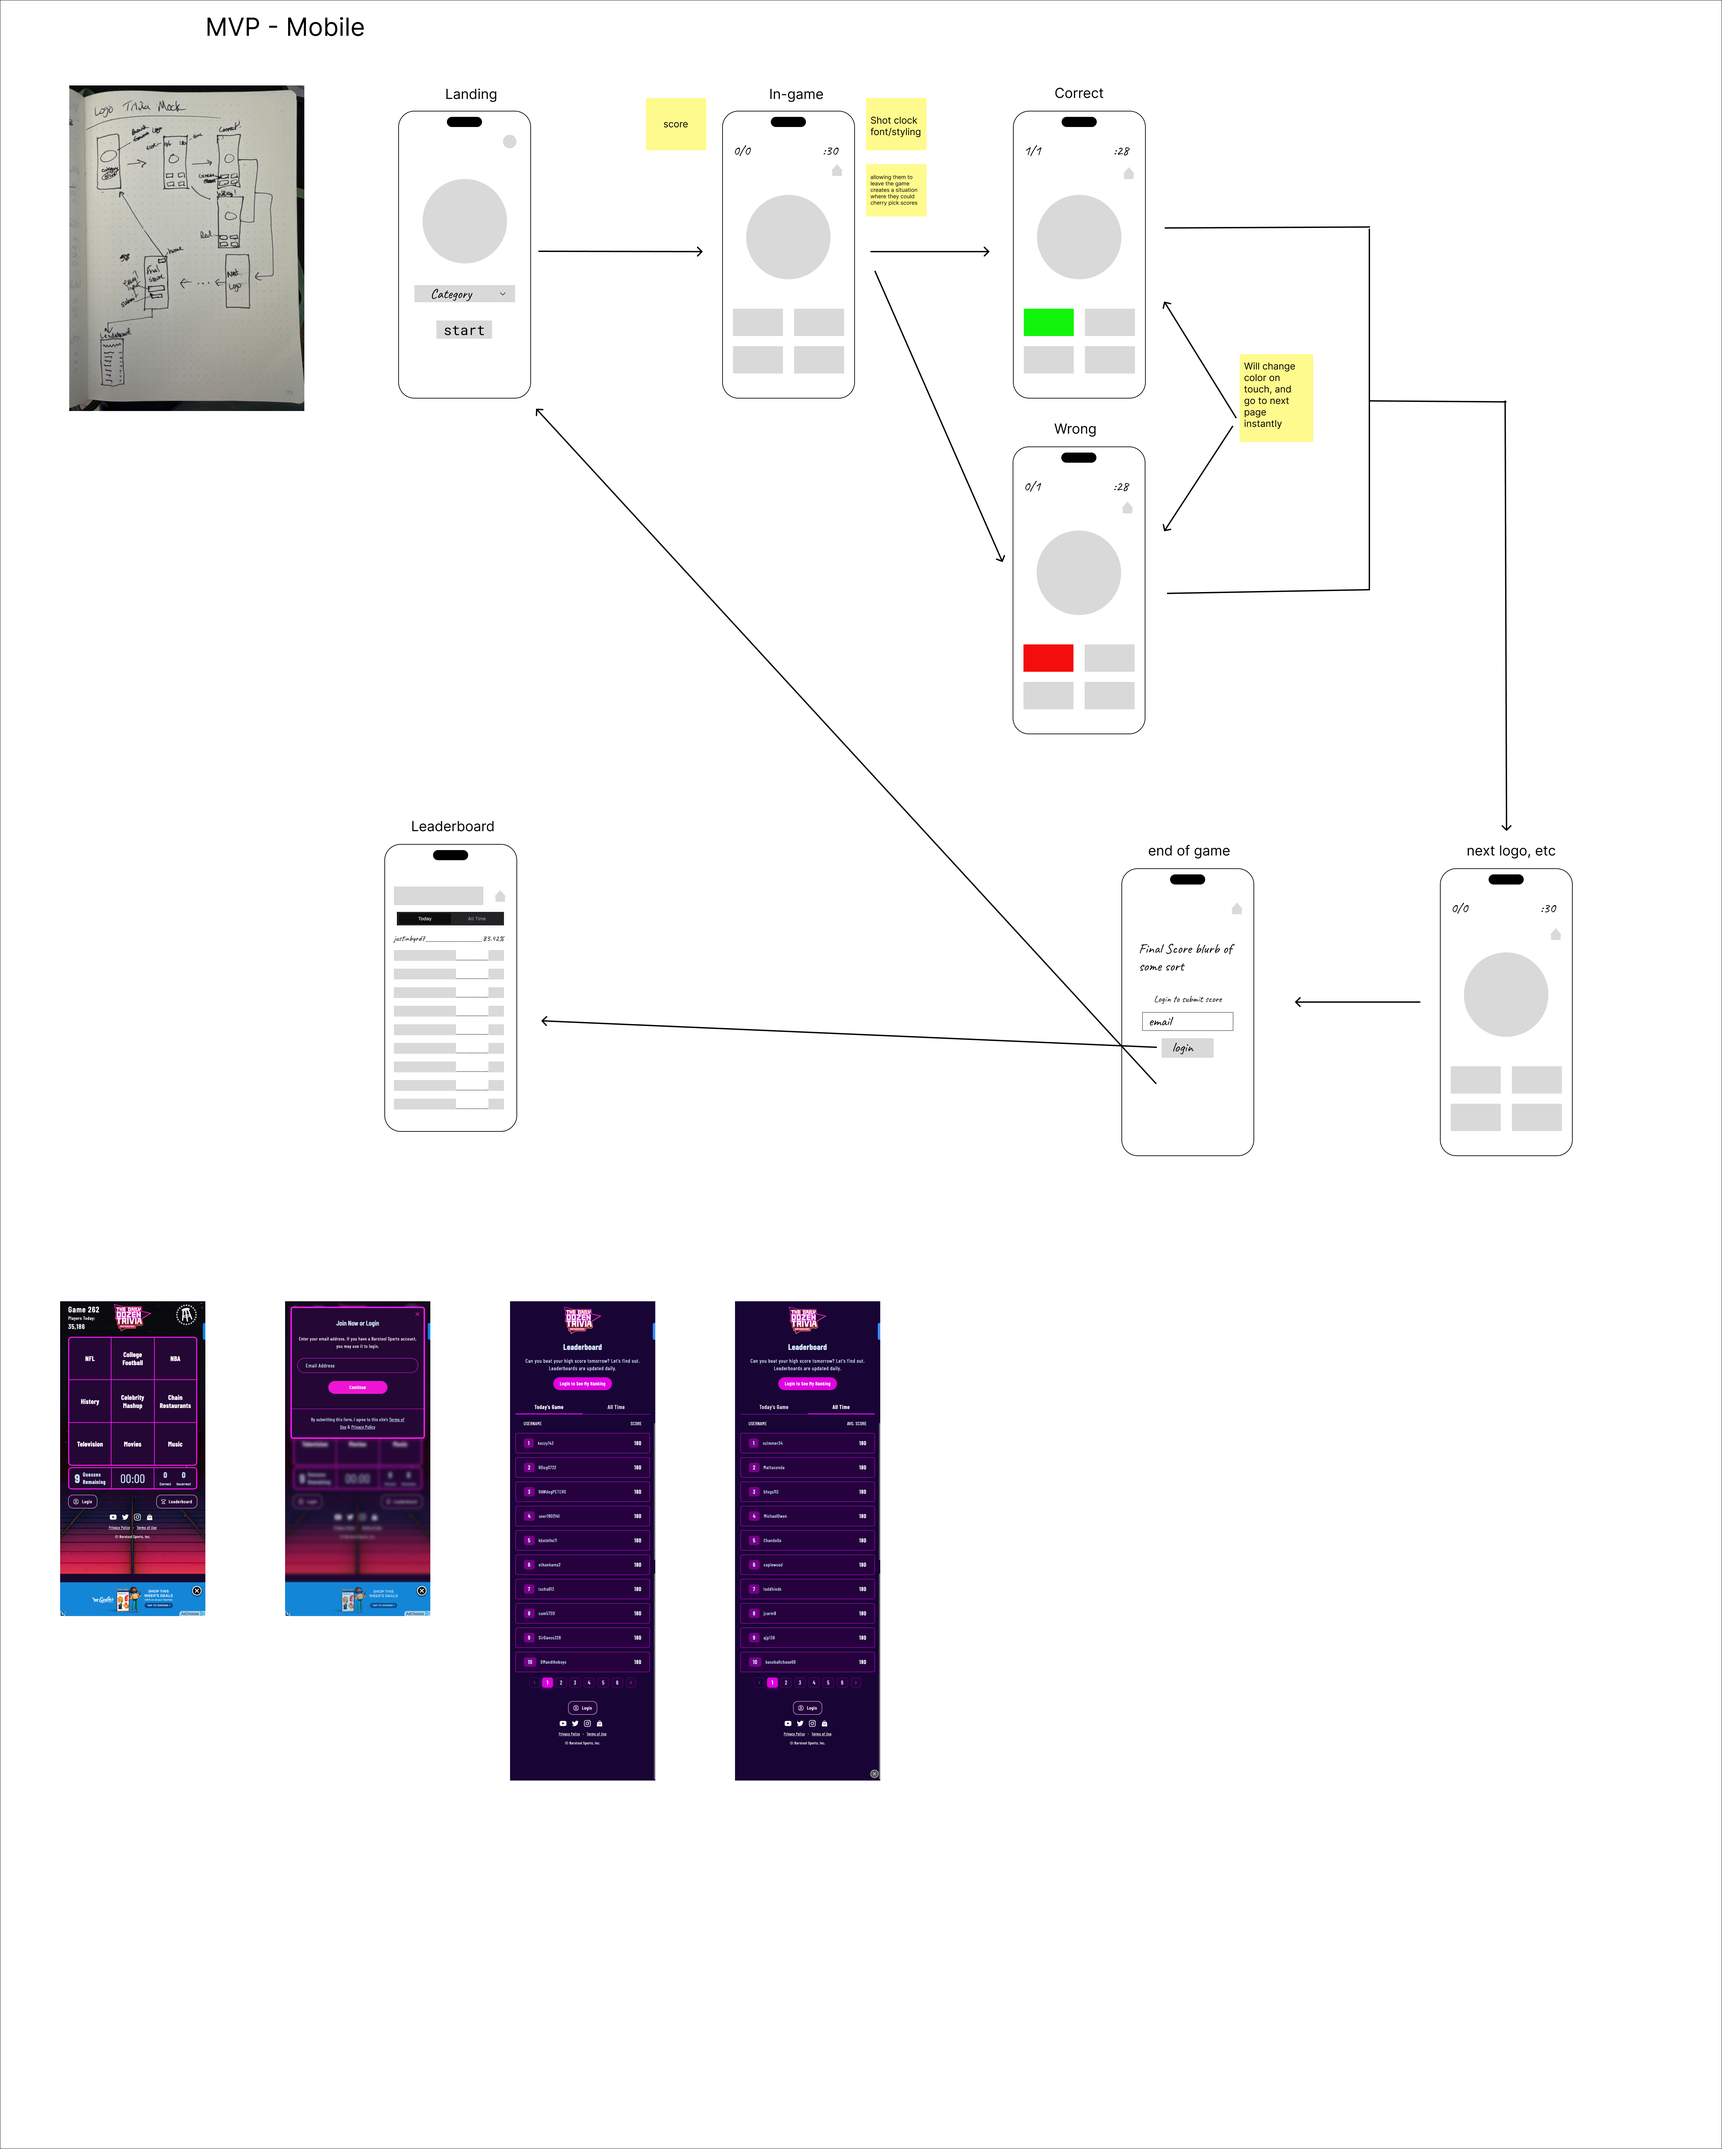
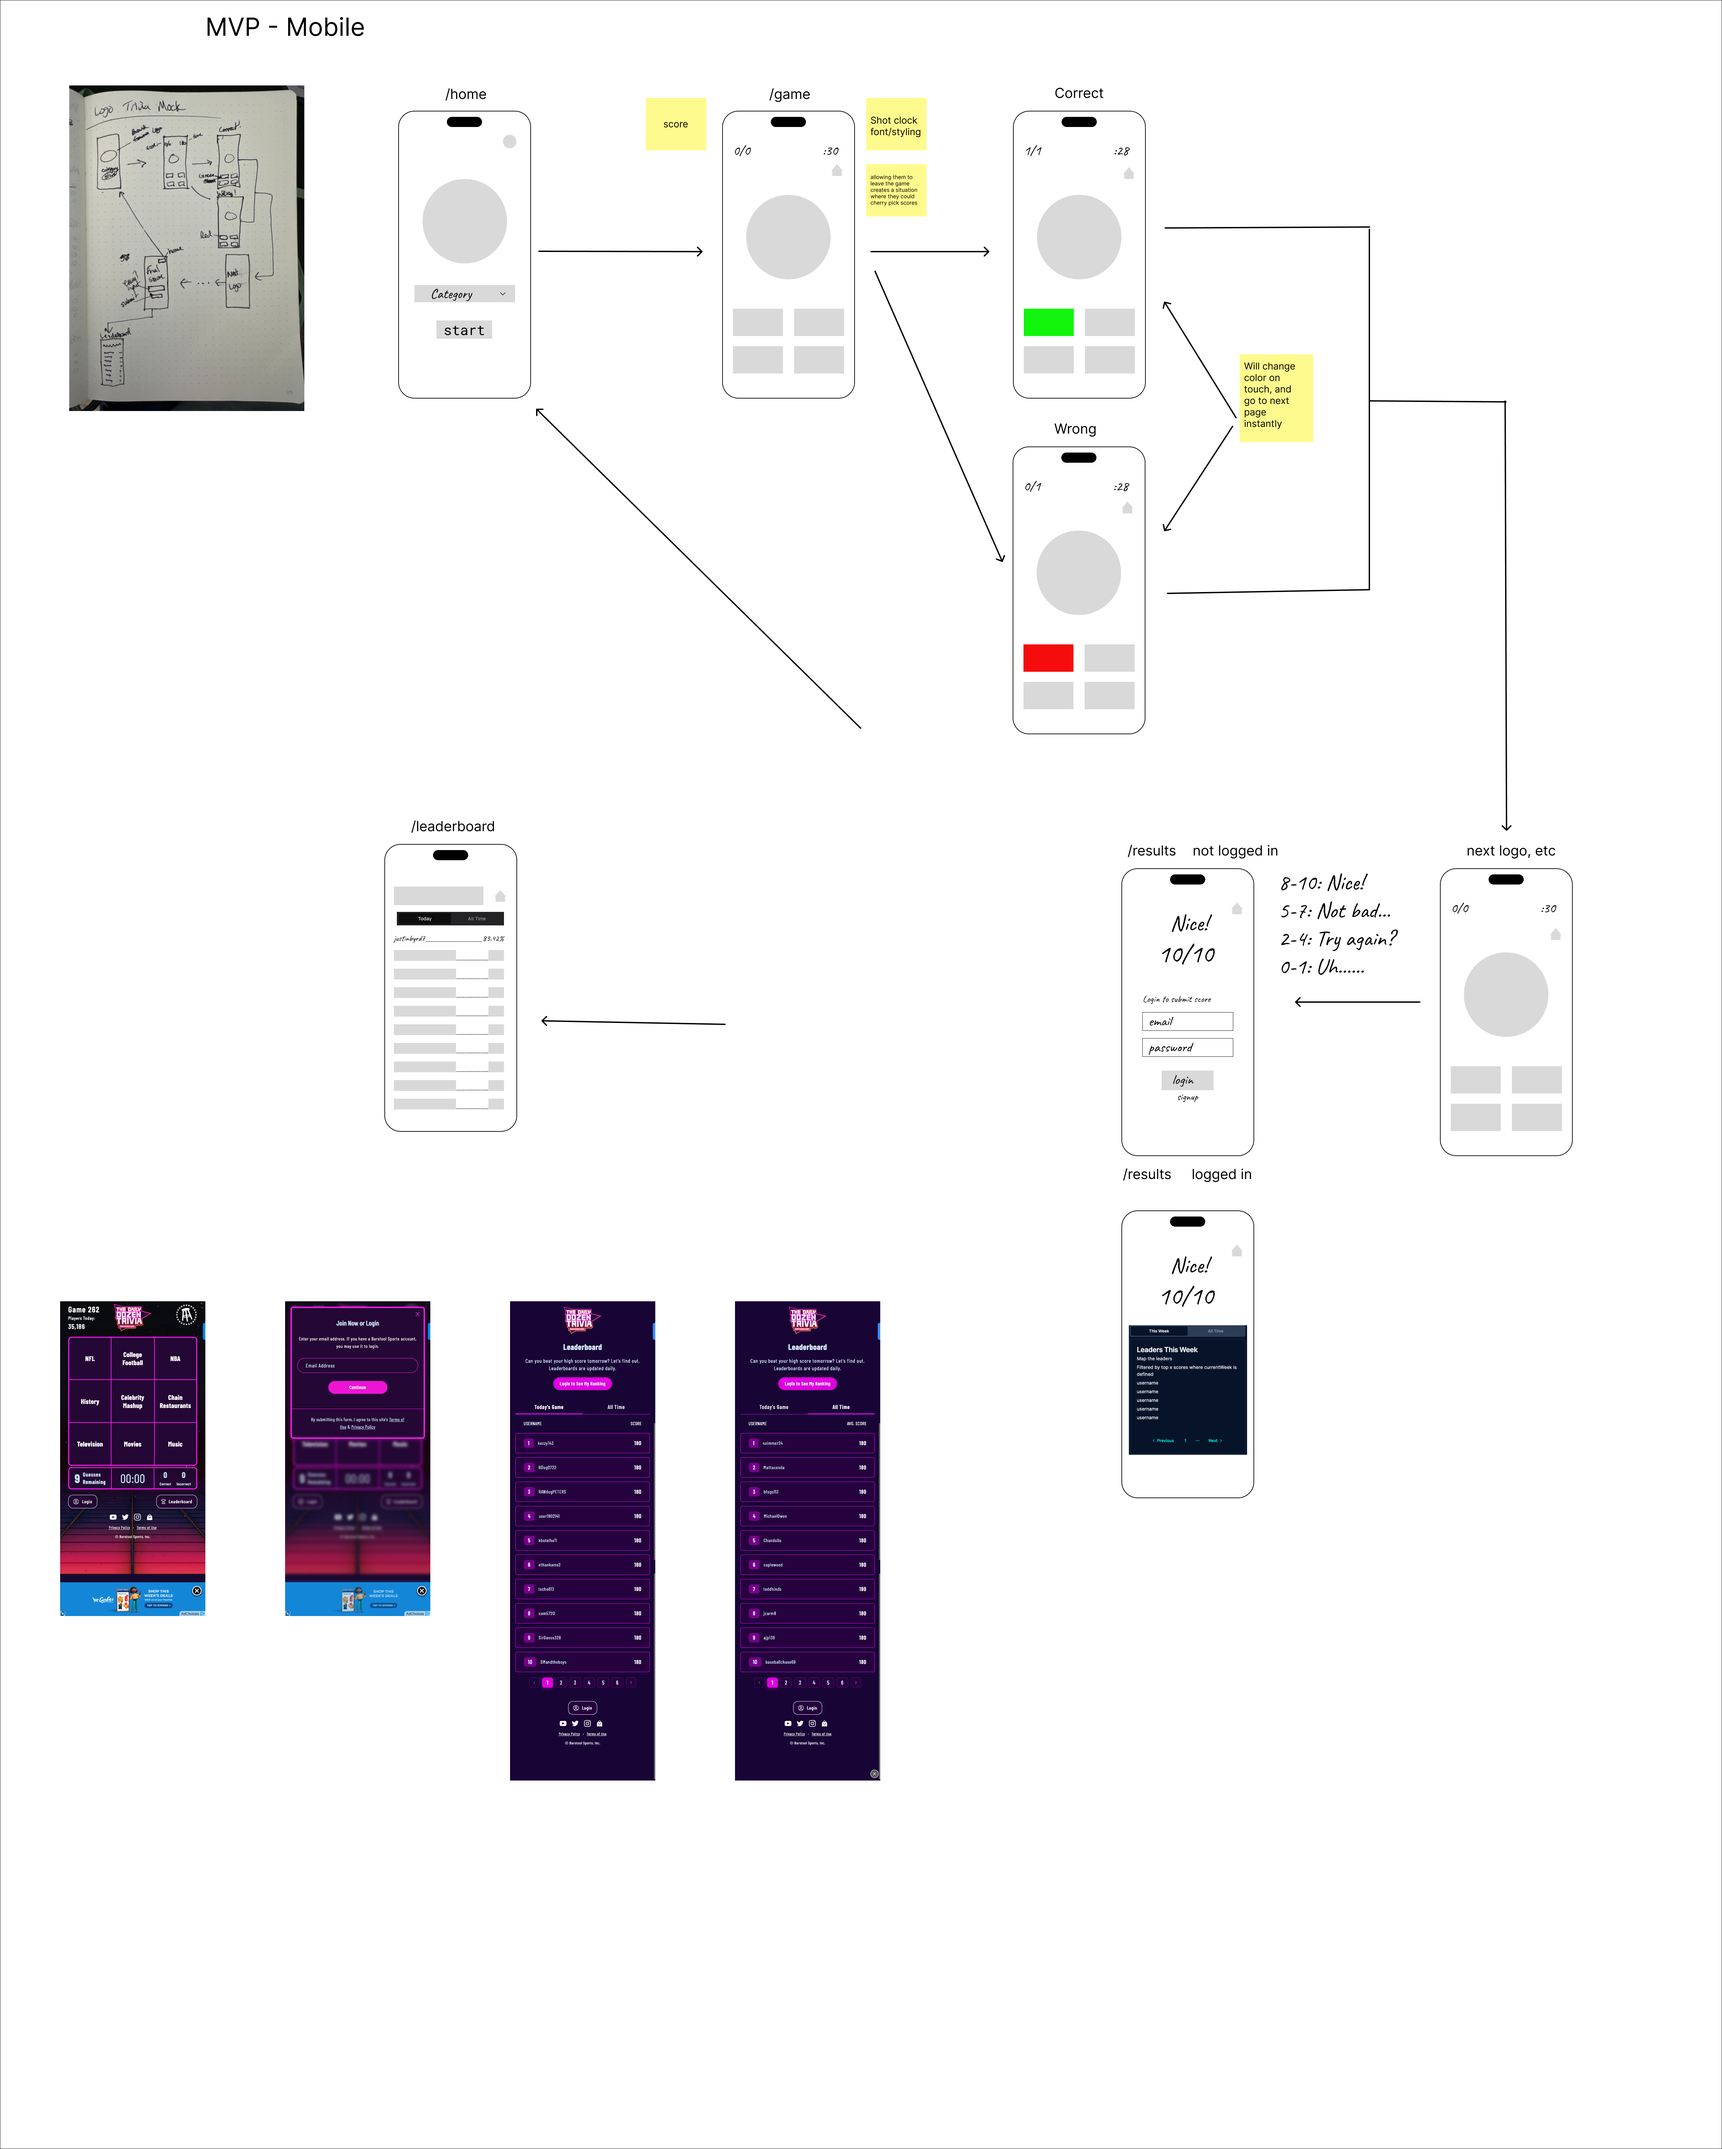
Refactor game page to add Nice! message and login functionality

Changed region(s): [[0.655, 0.5601, 0.7485, 0.6846], [0.655, 0.4356, 0.7173, 0.529], [0.7485, 0.4045, 0.7797, 0.4356]]

diff --git a/app/results/page.tsx b/app/results/page.tsx
@@ -1,16 +1,13 @@
+import { LeaderboardTabs } from "@/components/LeaderboardTabs";
+import Login from "@/components/Login";
+
 export default function Results() {
   return (
     <main className="flex flex-col min-h-screen">
       <div>Home Icon</div>
-      <div>Final Score Message</div>
-      <div>Final score</div>
-      <div>Log in to submit score</div>
-      <form>
-        <div>email input</div>
-        <div>password input</div>
-        <div>login button</div>
-        <div>register ghost button</div>
-      </form>
+      <div>Nice!</div>
+      <div>10/10</div>
+      {true ? <Login /> : <LeaderboardTabs />}{" "}
     </main>
   );
 }

diff --git a/components/Login.tsx b/components/Login.tsx
@@ -1,0 +1,11 @@
+export default function Login() {
+  return (
+    <div>
+      <div>Log in to submit score</div>
+      <div>email</div>
+      <div>password</div>
+      <div>login button</div>
+      <div>signup</div>
+    </div>
+  );
+}
